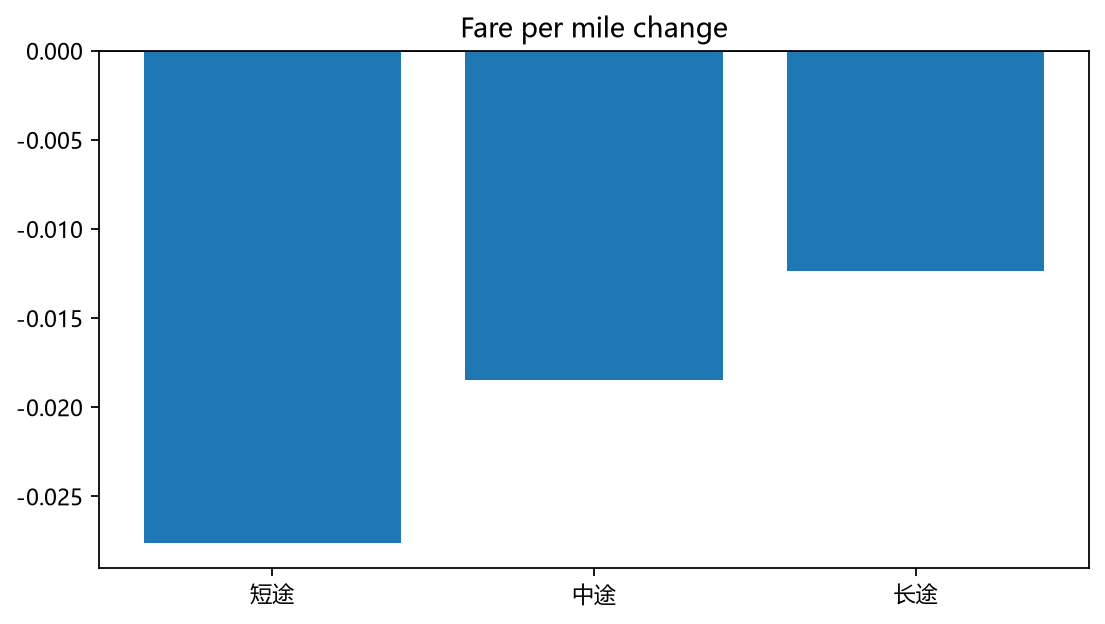
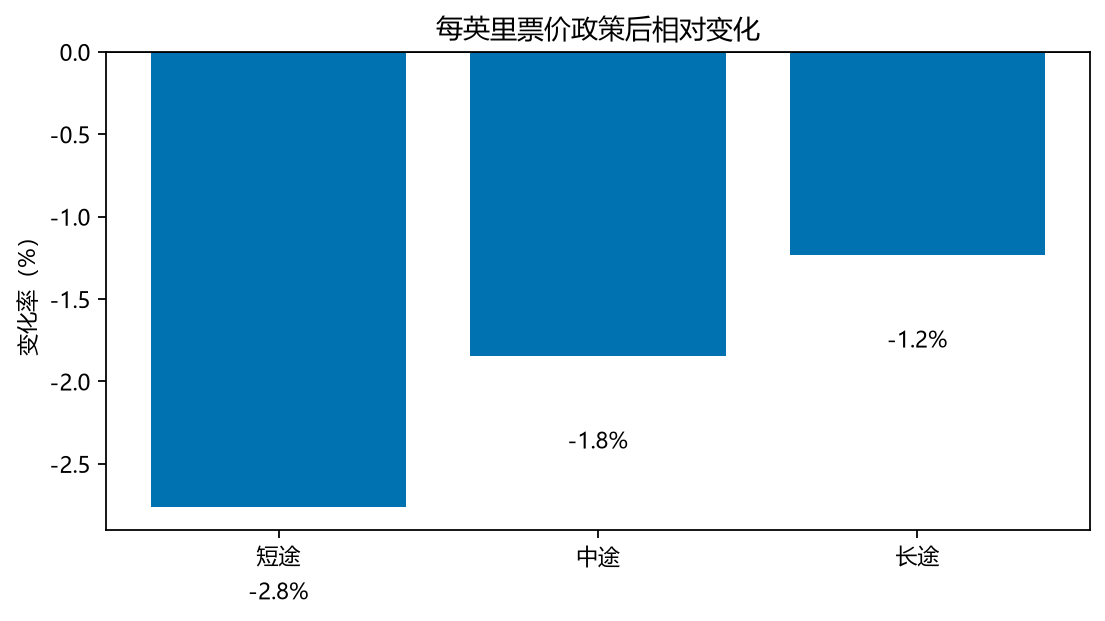
Clarify response and price change report charts

diff --git a/src/analysis/report_analysis_modules.py b/src/analysis/report_analysis_modules.py
@@ -107,11 +107,16 @@ def pricing_pressure(data: pd.DataFrame) -> None:
     result["passenger_discount_signal"] = (result["fare_per_mile_change_rate"] > 0) & (result["orders_post"] < result["orders_pre"])
     result["business_interpretation"] = "单位里程价格上升且订单下降的分组，是乘客优惠的候选对象。"
     save_table(result, "pricing_pressure_summary.csv")
-    for column, name, title in [("fare_per_mile_change_rate", "fare_per_mile_change.png", "Fare per mile change"), ("policy_fee_burden_change_rate", "policy_fee_burden_change.png", "Policy fee burden change")]:
+    for column, name, title in [("fare_per_mile_change_rate", "fare_per_mile_change.png", "每英里票价政策后相对变化"), ("policy_fee_burden_change_rate", "policy_fee_burden_change.png", "政策费用负担政策后相对变化")]:
         fig, ax = plt.subplots(figsize=(7, 4))
-        ax.bar(result["distance_segment"].astype(str), result[column].fillna(0))
+        values = result[column].fillna(0) * 100
+        colors = np.where(values >= 0, "#d55e00", "#0072b2")
+        bars = ax.bar(result["distance_segment"].astype(str), values, color=colors)
         ax.axhline(0, color="black", linewidth=0.8)
         ax.set_title(title)
+        ax.set_ylabel("变化率（%）")
+        for bar, value in zip(bars, values):
+            ax.text(bar.get_x() + bar.get_width() / 2, value + (0.15 if value >= 0 else -0.45), f"{value:.1f}%", ha="center", va="bottom" if value >= 0 else "top")
         save_plot(fig, name)
 
 
@@ -168,11 +173,16 @@ def response_time(data: pd.DataFrame) -> None:
     result["supply_reallocation_signal"] = (result["response_time_p90_post"] > result["response_time_p90_pre"]) & result["zone_group"].eq("spillover_zones")
     result["business_interpretation"] = "外溢区订单承接且 P90 响应时长变慢，说明司机供给可能未同步迁移。"
     save_table(result, "response_time_analysis.csv")
-    chart = result.groupby("zone_group", as_index=False)[["response_time_p90_pre", "response_time_p90_post"]].mean().melt(id_vars="zone_group", var_name="period", value_name="response_time_p90")
+    zone_labels = {"control_zones": "对照区", "other": "其他区域", "spillover_zones": "外溢区", "treated_zones": "收费核心区"}
+    chart = result.groupby("zone_group", as_index=False)[["response_time_p90_pre", "response_time_p90_post"]].mean()
+    chart["zone_label"] = chart["zone_group"].map(zone_labels).fillna(chart["zone_group"])
     fig, ax = plt.subplots(figsize=(8, 4))
-    for period, values in chart.groupby("period"):
-        ax.bar(values["zone_group"], values["response_time_p90"], label="政策后" if period.endswith("post") else "政策前", alpha=0.8)
-    ax.set_title("Response time P90 proxy by zone group")
-    ax.set_ylabel("Minutes")
+    positions = np.arange(len(chart))
+    width = 0.36
+    ax.bar(positions - width / 2, chart["response_time_p90_pre"], width=width, label="政策前", color="#0072b2")
+    ax.bar(positions + width / 2, chart["response_time_p90_post"], width=width, label="政策后", color="#d55e00")
+    ax.set_xticks(positions, chart["zone_label"])
+    ax.set_title("各区域组 P90 接驾响应时长代理")
+    ax.set_ylabel("分钟")
     ax.legend()
     save_plot(fig, "response_time_p90_change.png")